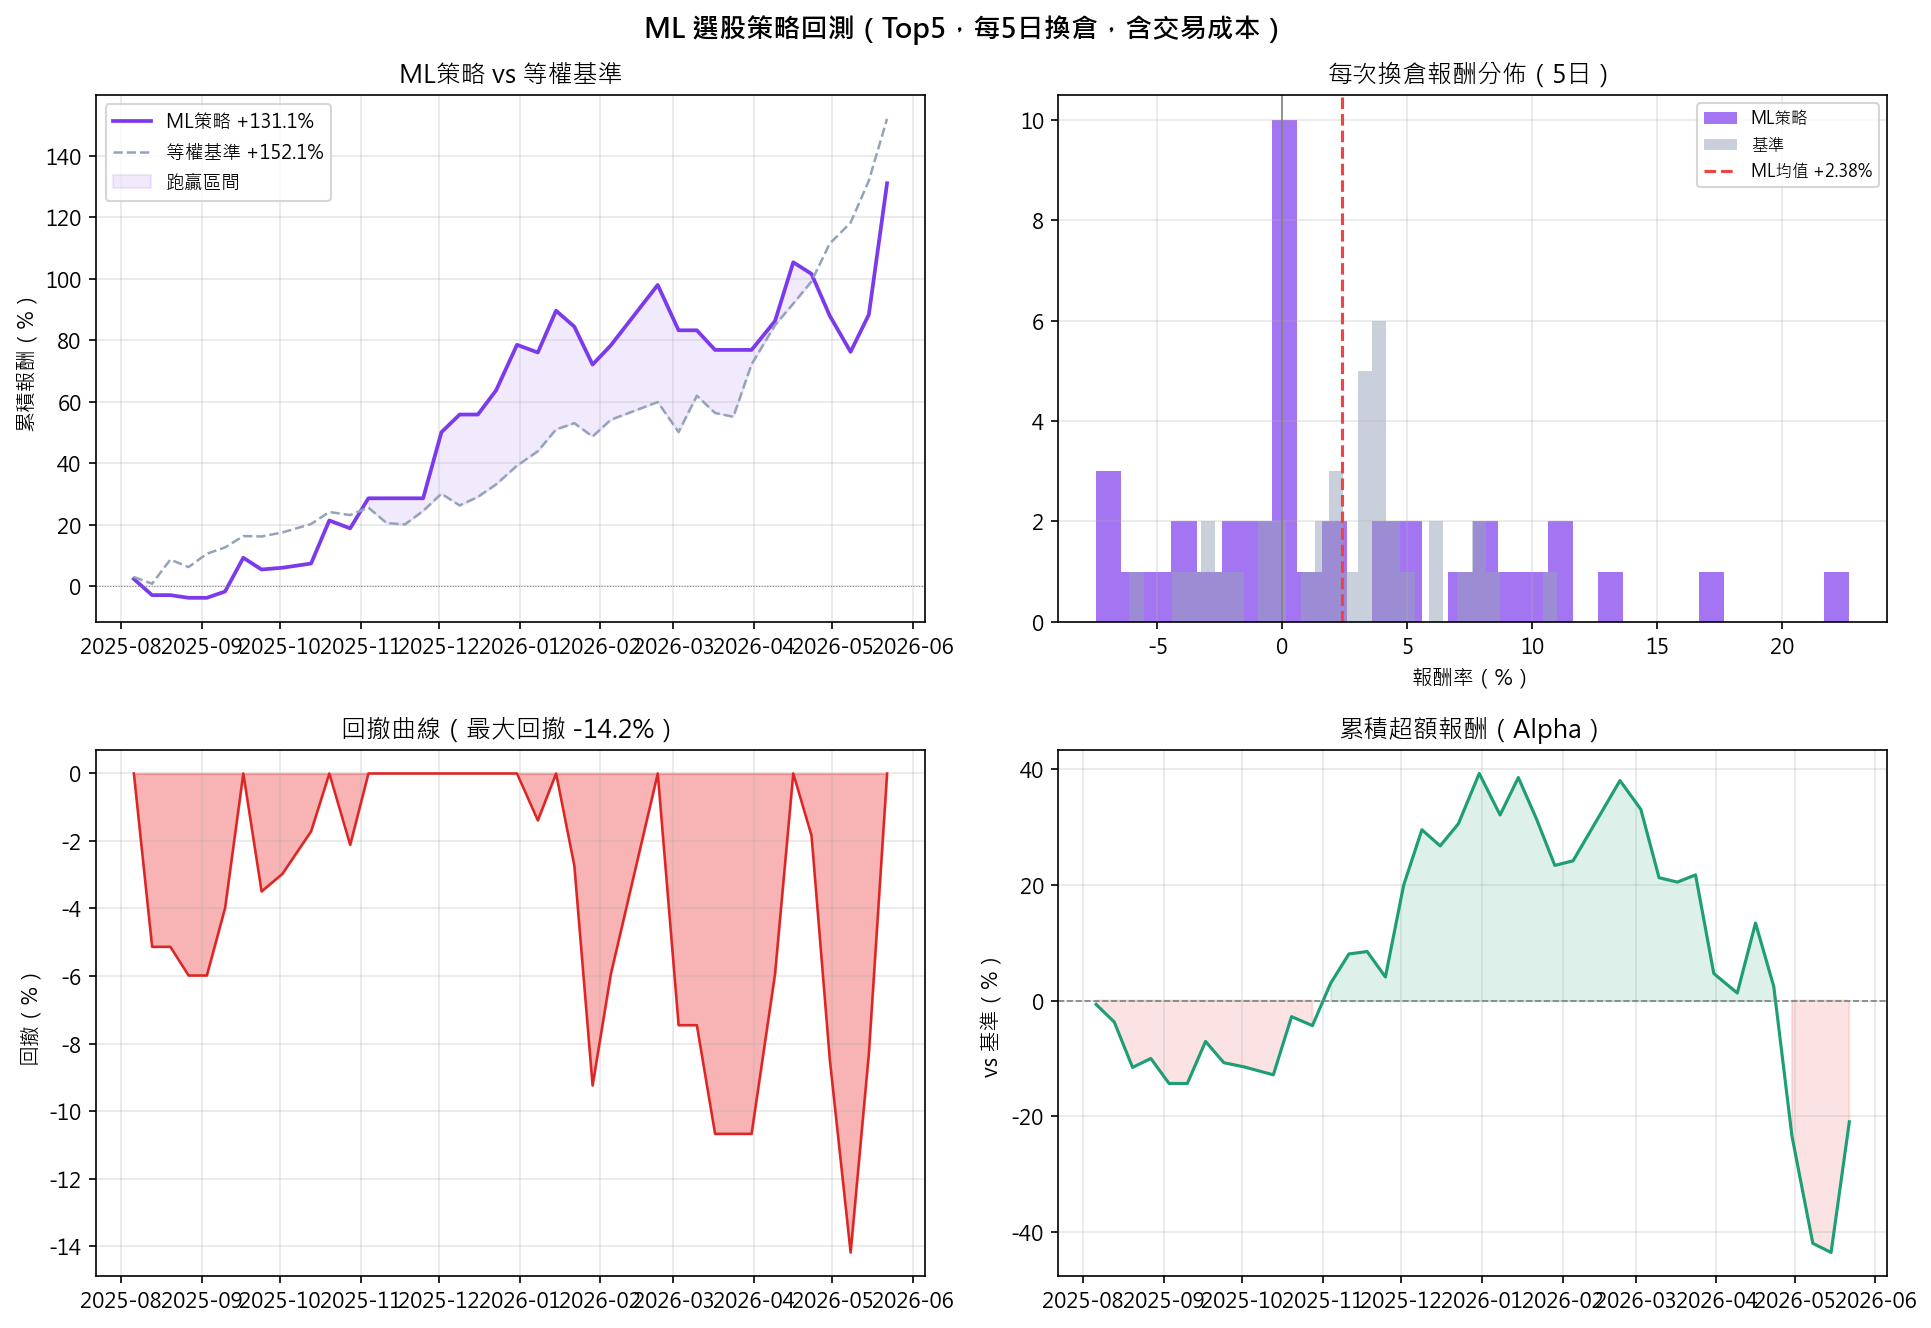
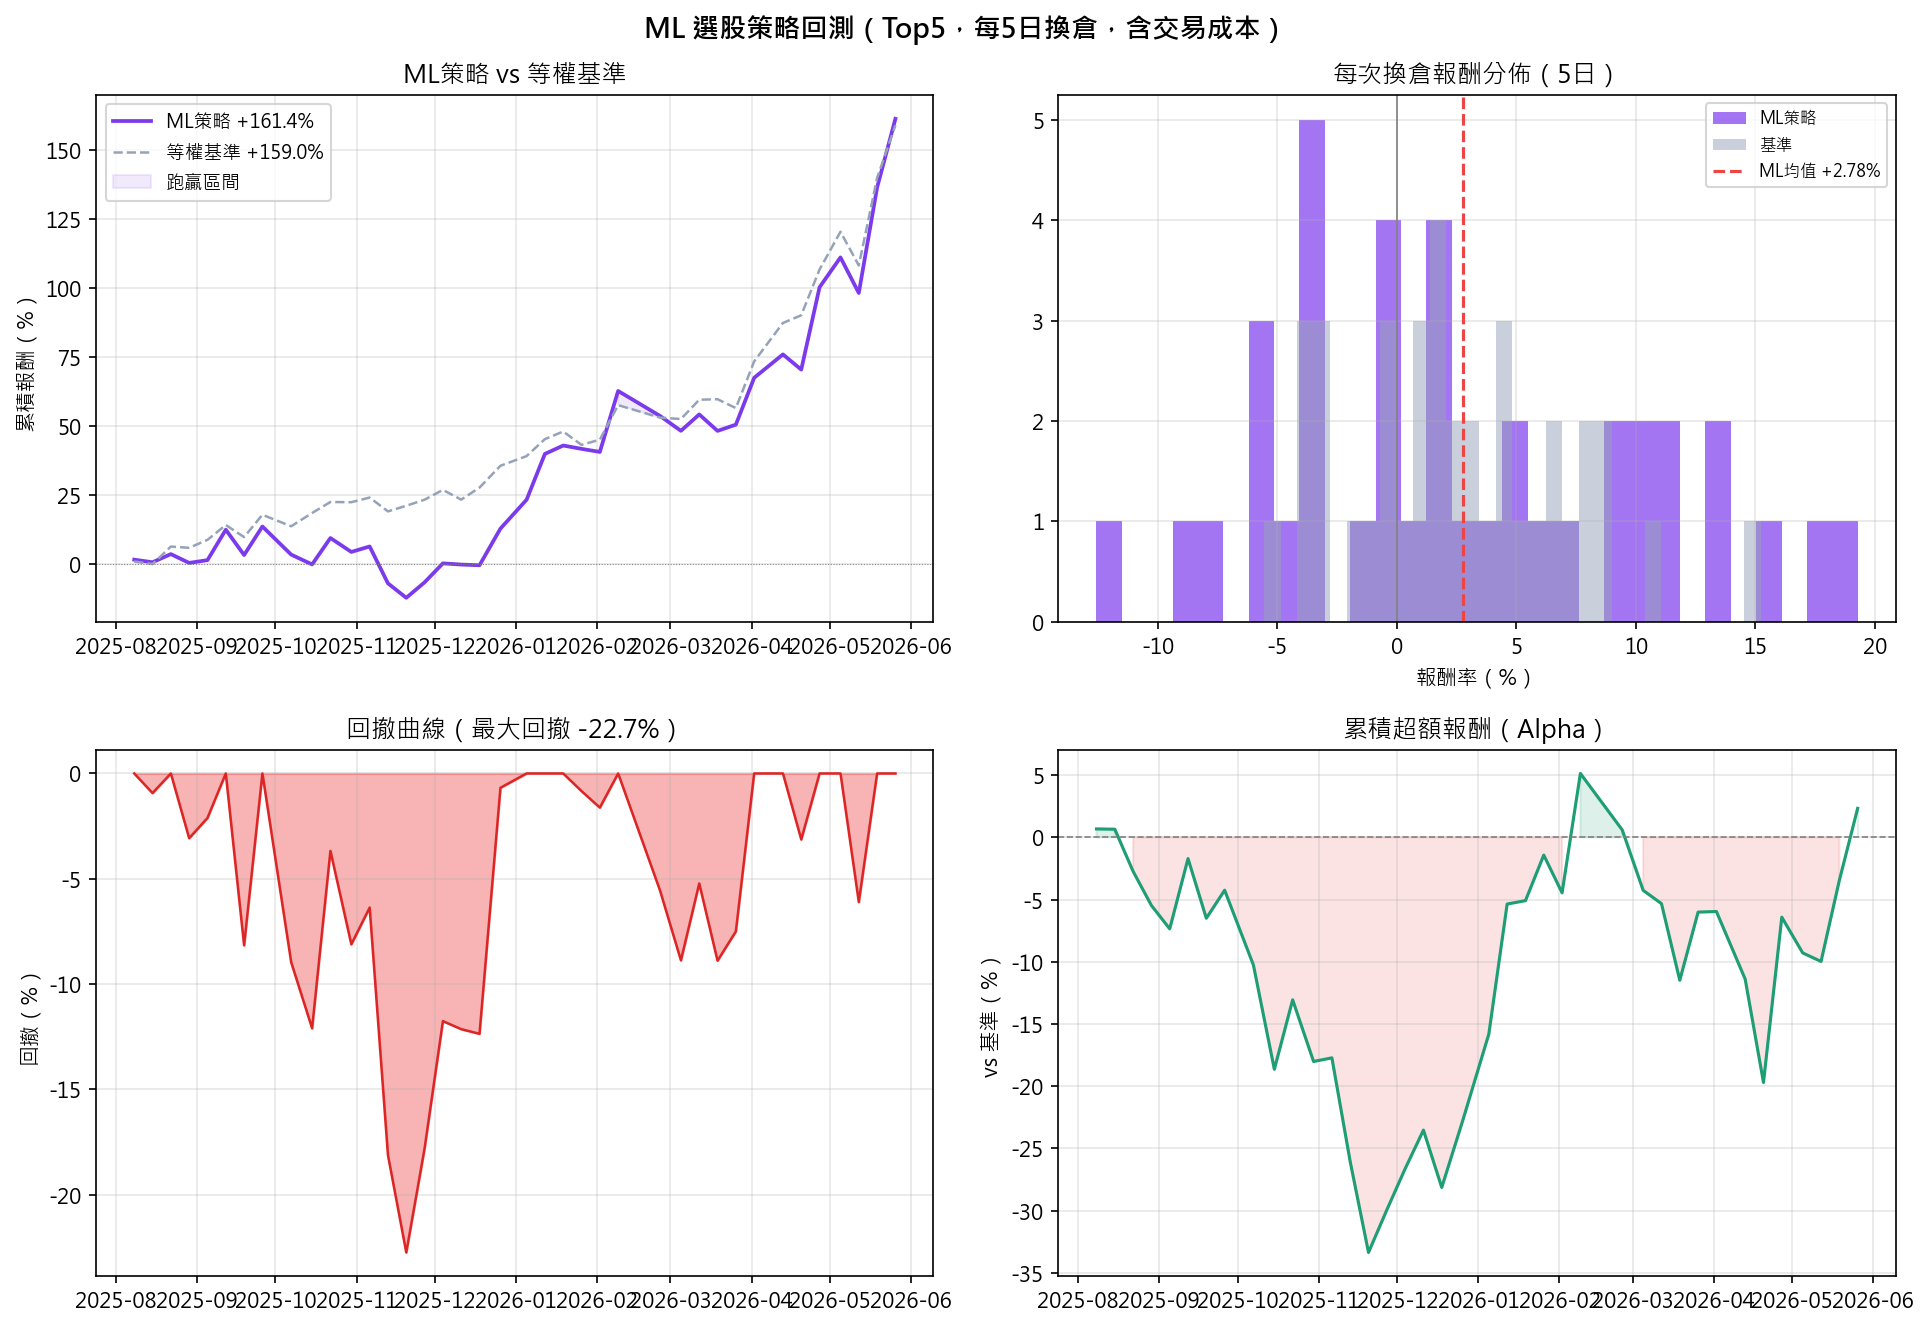
fix: LINE scheduler setup
- Replace run_daily.bat with run_market_briefing.bat (merged both scripts)
- Both scripts now use full conda Python path (django310)
- Task name changed to English (MarketBriefingLINE) to avoid CMD encoding issue
- Remove duplicate TWD API call in send_market_briefing_line.py
- Scheduled daily at 08:10 via Windows Task Scheduler

diff --git a/day19_ml_backtest.py b/day19_ml_backtest.py
@@ -60,20 +60,7 @@ prices, volumes = prices.align(volumes[prices.columns], join="inner")
 names   = list(prices.columns)
 print(f"可用股票：{len(names)} 檔，{len(prices)} 個交易日")
 
-# 下載大盤過濾用資料（台灣加權指數）
-print("下載大盤資料...")
-twii = yf.download("^TWII", period=PERIOD, progress=False, auto_adjust=True)["Close"]
-twii_ma20 = twii.rolling(20).mean()
-# 大盤過濾條件：加權指數在 MA20 之上才允許做多
-def market_ok(date):
-    try:
-        idx = twii.index.get_indexer([date], method="ffill")[0]
-        if idx < 0: return True
-        return float(twii.iloc[idx]) > float(twii_ma20.iloc[idx])
-    except:
-        return True
-
-# ── 2. 建立特徵面板 ───────────────────────────
+# ── 2. 建立特徵面板 ──────────────────────────
 print("建立特徵資料集...")
 frames = []
 for name in names:
@@ -103,7 +90,6 @@ test = test.copy()
 test["pred"] = model.predict(test[FEATURES])
 
 # ── 6. 模擬換倉邏輯 ───────────────────────────
-# 每 REBAL 天換倉一次，做多預測分數前 TOP_N 名
 rebal_dates = [d for i, d in enumerate(sorted(test.index.unique())) if i % REBAL == 0]
 
 portfolio_returns = []
@@ -111,20 +97,6 @@ prev_holdings     = []
 
 for i, date in enumerate(rebal_dates[:-1]):
     next_date = rebal_dates[i + 1]
-
-    # 大盤過濾：指數低於 MA20 時空手
-    if not market_ok(date):
-        selected = []  # 空手
-        avg_ret  = 0.0
-        cost     = 0.0
-        net_ret  = 0.0
-        portfolio_returns.append({
-            "date": date, "return": net_ret,
-            "gross": avg_ret, "cost": cost,
-            "holdings": [], "market_filter": True,
-        })
-        prev_holdings = []
-        continue
 
     # 當天選股
     day_data = test.loc[date].sort_values("pred", ascending=False)
@@ -153,7 +125,6 @@ for i, date in enumerate(rebal_dates[:-1]):
         "gross":    avg_ret,
         "cost":     cost,
         "holdings": selected,
-        "market_filter": False,
     })
     prev_holdings = selected
 
@@ -175,18 +146,21 @@ for i, date in enumerate(rebal_dates[:-1]):
 bm = pd.DataFrame(bm_rets).set_index("date")
 
 # ── 8. 績效指標 ───────────────────────────────
+# 💡 核心修正：強制讓基準 bm 的索引與策略 res 完全對齊，並用 ffill 補值
+bm_aligned = bm["return"].reindex(res.index).ffill().fillna(0.0)
+
 ml_cum  = (1 + res["return"]).cumprod() - 1
-bm_cum  = (1 + bm["return"]).cumprod() - 1
+bm_cum  = (1 + bm_aligned).cumprod() - 1
 
 ml_annual  = (1 + res["return"].mean()) ** (252 / REBAL) - 1
-bm_annual  = (1 + bm["return"].mean()) ** (252 / REBAL) - 1
+bm_annual  = (1 + bm_aligned.mean()) ** (252 / REBAL) - 1
 ml_sharpe  = res["return"].mean() / res["return"].std() * np.sqrt(252 / REBAL)
 ml_maxdd   = ((ml_cum + 1) / (ml_cum + 1).cummax() - 1).min()
 win_rate   = (res["return"] > 0).mean()
-beat_bm    = (res["return"] > bm["return"]).mean()
 
-filter_days = res["market_filter"].sum() if "market_filter" in res.columns else 0
-print(f"║ 大盤過濾空手次數：{filter_days:>4} 次")
+# 💡 這裡改成與對齊後的 bm_aligned 做比較，保證絕不報錯！
+beat_bm    = (res["return"] > bm_aligned).mean()
+
 print(f"""
 ╔══════════════════════════════════════════╗
 ║        ML 選股策略回測結果               ║
@@ -276,6 +250,7 @@ ax4.grid(alpha=0.3)
 plt.tight_layout()
 import os
 out = os.path.join(os.path.dirname(os.path.abspath(__file__)), "day19_ml_backtest.png")
+
 plt.savefig(out, dpi=150, bbox_inches="tight")
 plt.show()
 print(f"\n圖表已存檔：{out}")
